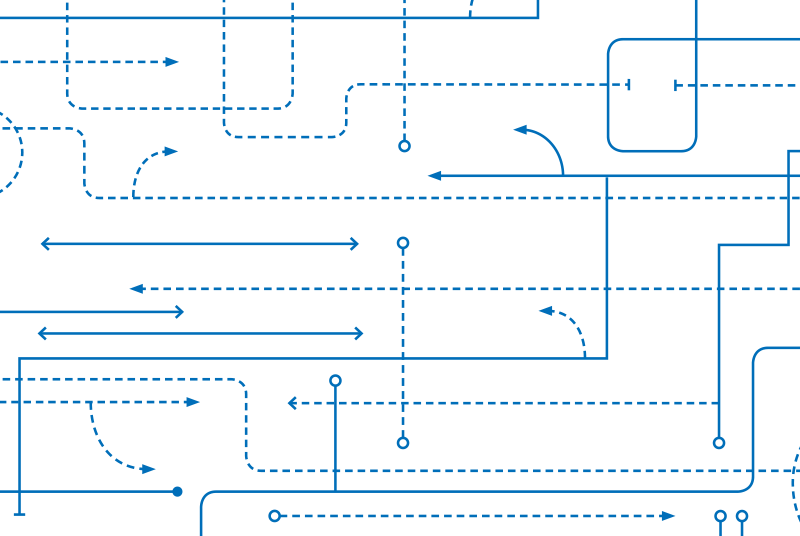
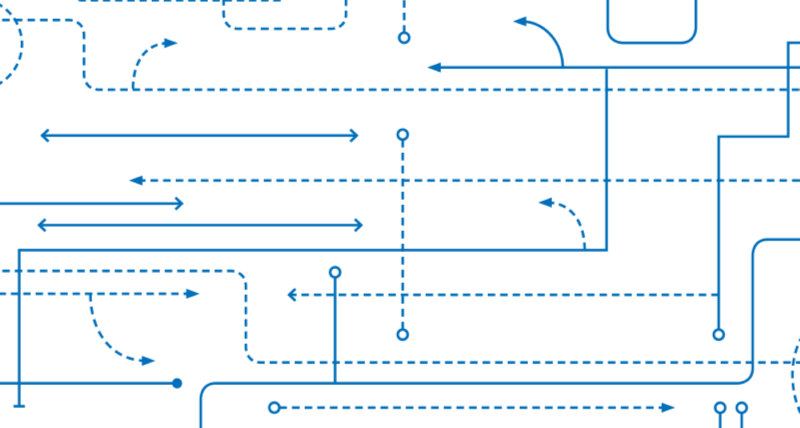
added ub create logoto images

Changed region(s): [[0.0, 0.0, 1.0, 0.972], [0.0, 0.2126, 0.0938, 0.2734], [0.0938, 0.243, 0.125, 0.2734]]

diff --git a/publications.html b/publications.html
@@ -85,7 +85,7 @@
 
 					<header>
 						<div class="container text-center">
-							<h1 style="font-weight: 900; font-family: Courier;">Publications</h1>
+							<h1 style="font-weight: 900; font-family: Courier; background-color: rgb(255,255,255,1);">Publications</h1>
 						</div>
 					</header>
 

diff --git a/assets/css/main.css b/assets/css/main.css
@@ -2291,8 +2291,7 @@ body {
 
 #pub header {
     background-image: url("images/ub_background.png");
-    background-size: no-repeat;
-	color: #fff;
+    background-repeat: repeat;
 	padding: 170px 0;
     
 }
